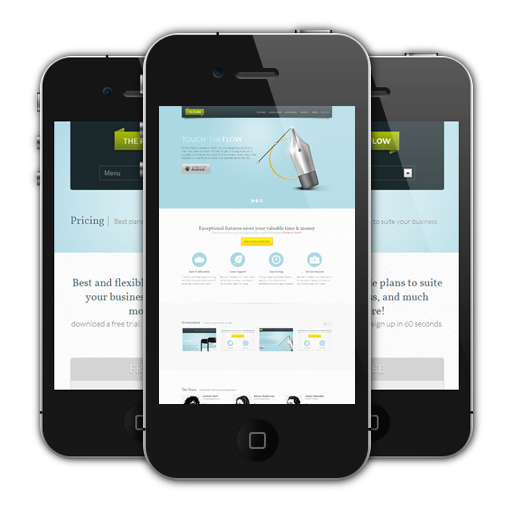
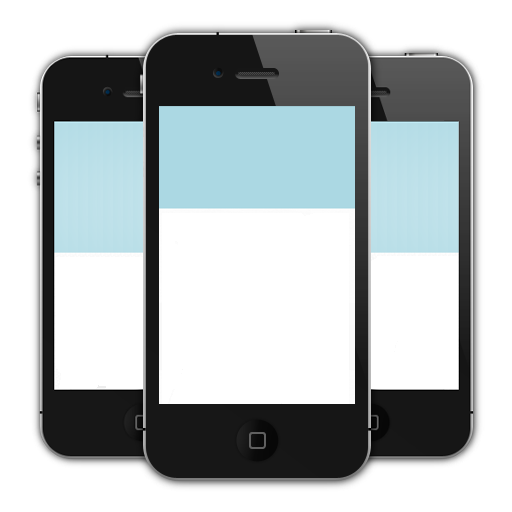
Menu finalize and Page layout updated

diff --git a/index.html b/index.html
@@ -6,7 +6,7 @@
 <meta name="keywords" content="web development, python, javascript, css, html, angularjs, nodejs, "/>
 <meta name="author" content="YoKu" />
 <meta name="viewport" content="width=device-width, initial-scale=1, maximum-scale=1"/>
-<title>crubod Inc.</title>
+<title>crubod</title>
 
 <!--Fav and touch icons-->
 <link rel="shortcut icon" href="images/icons/favicon.ico">
@@ -135,12 +135,13 @@ $('#contactform #message').val('');
       <div id="nav" class="twelve columns omega">
         <ul>
           <li><a href="#header_wrapper" class="nav-header_wrapper nav selected">Home</a></li>
-          <li><a href="#features" class="nav-about-us nav">About Us</a></li>
-          <li><a href="#screenshots" class="nav-products nav">Products</a></li>
-          <li><a href="#download" class="nav-service nav">Services</a></li>
-          <li><a href="#download" class="nav-team nav">Clients</a></li>
+          <li><a href="#aboutus" class="nav-about-us nav">About Us</a></li>
+          <li><a href="#products" class="nav-products nav">Products</a></li>
+          <li><a href="#services" class="nav-services nav">Services</a></li>
+          <li style="display:none;"><a href="#team" class="nav-team nav">Team</a></li>
+          <li><a href="#clients" class="nav-clients nav">Clients</a></li>
           <li><a href="#contact" class="nav-contact nav">Contact</a></li>
-          <li><a href="#">More</a>
+          <li style="display:none;"><a href="#">More</a>
             <ul>
               <li class="firstdroplink"><a href="pricing-3columns.html">Blog</a></li>
               <li class="lastdroplink"><a href="pricing-4columns.html">Recuitment</a></li>
@@ -160,27 +161,27 @@ $('#contactform #message').val('');
         
         <!--slide one starts-->
         <div class="da-slide">
-          <h2>Get Head<strong>start</strong></h2>
+          <h2>Web <strong>Development</strong></h2>
           <p> There's a voice that keeps on calling me. Down the road, that's where I'll always be. Every stop I make, I make a new friend. Can't stay for long, just turn around and I'm gone again. Maybe tomorrow, I'll want to settle down, I'll just keep moving on.</p>
-          <a href="#" class="da-link btn_googleplay"></a>
+          <a style="display:none;" href="#" class="da-link btn_googleplay"></a>
           <div class="da-img"><img src="images/preview/iphone.png" alt="image"/></div>
         </div>
         <!--slide one ends--> 
         
         <!--slide two starts-->
         <div class="da-slide">
-          <h2>Easy & <strong>Affordable</strong></h2>
+          <h2>Innovative <strong>Thoughts</strong></h2>
           <p>This is my boss, Jonathan Hart, a self-made millionaire, he's quite a guy. This is Mrs H., she's gorgeous and knows how to take care of herself. By the way, my name is Max. I take care of both of them, which ain't easy.</p>
-          <a href="#" class="da-link btn_appstore"></a>
+          <a style="display:none;" href="#" class="da-link btn_appstore"></a>
           <div class="da-img"><img src="images/preview/light.png" alt="image"/></div>
         </div>
         <!--slide two ends--> 
         
         <!--slide three starts-->
         <div class="da-slide">
-          <h2>touch <strong>crubod Inc.</strong> </h2>
+          <h2>Accuracy &amp;  <strong>Precision</strong> </h2>
           <p>Knight Rider, a shadowy flight into the dangerous world of a man who does not exist. Michael Knight, a young loner on a crusade to champion the cause of the innocent lorem ipsum, the helpless in a world of criminals who operate above the law.</p>
-          <a href="#" class="da-link btn_android"></a>
+          <a style="display:none;" href="#" class="da-link btn_android"></a>
           <div class="da-img"><img src="images/preview/draw.png" alt="image"/></div>
         </div>
         <!--slide three ends--> 
@@ -194,7 +195,7 @@ $('#contactform #message').val('');
     <div id="slider_replace">
       <div class="eight columns"><img src="images/preview/iphone.png" alt="image"/></div>
       <div class="eight columns">
-        <h2>Get Head<strong>start</strong></h2>
+        <h2>Web <strong>Development</strong></h2>
         <p> There's a voice that keeps on calling me. Down the road, that's where I'll always be. Every stop I make, I make a new friend. Can't stay for long, just turn around and I'm gone again. Maybe tomorrow, I'll want to settle down, Until tomorrow, I'll just keep moving on.</p>
         <a href="#" class="btn_googleplay"></a> </div>
     </div>
@@ -204,15 +205,15 @@ $('#contactform #message').val('');
 </div>
 <!--header_wrapper ends--> 
 
-<!--features section starts-->
-<div id="features" class="container clearfix scroll-content"> 
+<!--about us section starts-->
+<div id="aboutus" class="container clearfix scroll-content"> 
   
   <!--text and button-->
   <div class="sixteen columns">
-    <h1>Exceptional features saves your valuable time & money</h1>
-    <p class="textstyle1">One for all and all for one. If you've got a problem, think how it could be. <a href="#" class="coloredstrong">Checkout more!</a></p>
+    <h1>About Us</h1>
+    <p class="textstyle1">There's a voice that keeps on calling me. Down the road, that's where I'll always be. Every stop I make, I make a new friend. Can't stay for long, just turn around and I'm gone again. Maybe tomorrow, I'll want to settle down, Until tomorrow, I'll just keep moving on. There's a voice that keeps on calling me. Down the road, that's where I'll always be. Every stop I make, I make a new friend. Can't stay for long, just turn around and I'm gone again. Maybe tomorrow, I'll want to settle down, Until tomorrow, I'll just keep moving on. There's a voice that keeps on calling me. Down the road, that's where I'll always be. Every stop I make, I make a new friend. Can't stay for long, just turn around and I'm gone again. Maybe tomorrow, I'll want to settle down, Until tomorrow, I'll just keep moving on.<a style="display:none;" href="#" class="coloredstrong">Checkout more!</a></p>
     <div class="centerline">
-      <div class="button_wrapper"> <a href="#" class="btn_yellow"><span>See Plans & Pricing</span></a></div>
+      <div class="button_wrapper"> <a href="#" class="btn_yellow"><span>Testimonial</span></a></div>
     </div>
   </div>
   
@@ -249,18 +250,24 @@ $('#contactform #message').val('');
   <!--feature four ends--> 
   
 </div>
-<!--features section ends--> 
+<!--about us section ends--> 
 
-<!--screenshots section starts-->
+<!--products section starts-->
 <div class="row_color">
-  <div id="screenshots" class="container clearfix scroll-content">
+  <div id="products" class="container clearfix scroll-content">
     <div class="columns sixteen"> 
       
       <!--heading (do not remove clear below heading)-->
-      <h2>Screenshots</h2>
-      <p class="textstyle2">What you see is what you get</p>
+      <h1>Products</h1>
+      <p class="textstyle2">There's a voice that keeps on calling me. Down the road, that's where I'll always be. Every stop I make, I make a new friend. Can't stay for long, just turn around and I'm gone again. Maybe tomorrow, I'll want to settle down, Until tomorrow, I'll just keep moving on. There's a voice that keeps on calling me. Down the road, that's where I'll always be. Every stop I make, I make a new friend.</p>
       <br class="clear"/>
-      
+      <h3>We have worked on these products</h3>
+      <ul class="list2">
+      	<li>SeekersGuru</li>
+      	<li>Yoku - Project Management</li>
+      	<li>YokuCabs</li>
+      	<li>Haana</li>
+      </ul>
       <!--gallery / carousel starts-->
       <ul id="mycarousel" class="jcarousel-skin-tango">
         <li>
@@ -287,15 +294,37 @@ $('#contactform #message').val('');
     </div>
   </div>
 </div>
-<!--screenshots section ends--> 
+<!--products section ends--> 
+
+<!--services section starts-->
+<div class="row_color">
+  <div id="services" class="container clearfix scroll-content">
+    <div class="columns sixteen"> 
+      
+      <!--heading (do not remove clear below heading)-->
+      <h1>Services</h1>
+      <p class="textstyle2">There's a voice that keeps on calling me. Down the road, that's where I'll always be. Every stop I make, I make a new friend. Can't stay for long, just turn around and I'm gone again. Maybe tomorrow, I'll want to settle down, Until tomorrow, I'll just keep moving on. There's a voice that keeps on calling me. Down the road, that's where I'll always be. Every stop I make, I make a new friend.here's a voice that keeps on calling me. Down the road, that's where I'll always be. Every stop I make, I make a new friend. Can't stay for long, just turn around and I'm gone again. Maybe tomorrow, I'll want to settle down, Until tomorrow, I'll just keep moving on. There's a voice that keeps on calling me. Down the road, that's where I'll always be. Every stop I make, I make a new friend.</p>
+      <br class="clear"/>
+      <h3>We Provide these services</h3>
+      <ul class="list1">
+      	<li>Web Deveploment</li>
+      	<li>Mobile Deveploment</li>
+      	<li>Traning</li>
+      	<li>Consultancy services</li>
+      	<li>Support</li>
+      </ul>
+    </div>
+  </div>
+</div>
+<!--services section ends--> 
 
 <!--team section starts-->
-<div id="team" class="container clearfix scroll-content"> 
+<div style="display:none;" id="team" class="container clearfix scroll-content"> 
   
   <!--heading here-->
   <div class="columns sixteen">
     <h2>The Team</h2>
-    <p class="textstyle2">People behind this awesome application</p>
+    <p class="textstyle2">People behind this organization</p>
   </div>
   
   <!--member one starts-->
@@ -340,27 +369,23 @@ $('#contactform #message').val('');
 </div>
 <!--team section ends--> 
 
-<!--download section starts-->
+<!--clients section starts-->
 <div class="row_color">
-  <div id="download" class="container clearfix scroll-content">
+  <div id="clients" class="container clearfix scroll-content">
     <div class="columns sixteen"> 
-      
-      <!--grey logo-->
-      <div class="logo_grey"><img src="images/logo-mono.png" width="122" height="62" alt="logo"></div>
-      <h2>Don't wait. Indulge into the beauty of this awesome application</h2>
-      <ul class="textlist">
-        <li>30 days free trial</li>
-        <li>| </li>
-        <li> No credit card required </li>
-        <li>| </li>
-        <li><span class="coloredstrong">$10 /month</span> after end of trial period</li>
-      </ul>
-      <!--center aligned button-->
-      <div class="button_wrapper"> <a href="#" class="btn_yellow"><span>Download Today!</span></a></div>
+      <h2>Clients</h2>
+      <div class="sixteen columns client-div">
+      	<h4>Google</h4>
+      	<img src="images/preview/thumb-1.jpg" alt="image" class="image_left">Nam liber tempor cum soluta nobis eleifend option congue nihil imperdiet doming id quod mazim placerat facer possim assum. Nam liber tempor cum soluta nobis eleifend option congue nihil imperdiet doming id quod mazim placerat facer possim assum. Nam liber tempor cum soluta nobis eleifend option congue nihil imperdiet doming id quod mazim placerat facer possim assum.
+      </div>
+      <div class="sixteen columns client-div">
+      	<h4>Facebook</h4>
+      	<img src="images/preview/thumb-2.jpg" alt="image" class="image_left">Nam liber tempor cum soluta nobis eleifend option congue nihil imperdiet doming id quod mazim placerat facer possim assum. Nam liber tempor cum soluta nobis eleifend option congue nihil imperdiet doming id quod mazim placerat facer possim assum. Nam liber tempor cum soluta nobis eleifend option congue nihil imperdiet doming id quod mazim placerat facer possim assum.
+      </div>
     </div>
   </div>
 </div>
-<!--download section ends--> 
+<!--clients section ends--> 
 
 <!--sub_footer section starts-->
 <div id="sub_footer" class="container clearfix scroll-content"> 
@@ -459,12 +484,12 @@ $('#contactform #message').val('');
     <!--address / social starts-->
     <div class="column one-third address">
       <ul class="social">
-        <li><a href="#"><img src="images/icons/social-footer-dribbble.png" width="46" height="46" alt="icon"></a></li>
-        <li><a href="#"><img src="images/icons/social-footer-skype.png" width="46" height="46" alt="icon"></a></li>
-        <li><a href="#"><img src="images/icons/social-footer-facebook.png" width="46" height="46" alt="icon"></a></li>
-        <li><a href="#"><img src="images/icons/social-footer-twitter.png" width="46" height="46" alt="icon"></a></li>
+        <li style="display:none;"><a href="#"><img src="images/icons/social-footer-dribbble.png" width="46" height="46" alt="icon"></a></li>
+        <li><a href="skype:crubod?call"><img src="images/icons/social-footer-skype.png" width="46" height="46" alt="icon"></a></li>
+        <li><a target="_blank" href="https://www.facebook.com/crubod"><img src="images/icons/social-footer-facebook.png" width="46" height="46" alt="icon"></a></li>
+        <li><a target="_blank" href="https://twitter.com/crubod"><img src="images/icons/social-footer-twitter.png" width="46" height="46" alt="icon"></a></li>
       </ul>
-      <div class="contact_info"> <a href="#" >info@crubod.com</a>
+      <div class="contact_info"> <a href="mailto:info@crubod.com" >info@crubod.com</a>
         <p>+91 (0) 8890467032</p>
       </div>
       <p>New Delhi, India </p>
@@ -482,7 +507,7 @@ $('#contactform #message').val('');
   
   <!--footer starts-->
   <div id="footer">
-    <p>crubod Inc. © 2014. All Rights Reserved.</p>
+    <p>crubod © 2014. All Rights Reserved.</p>
     <ul style="display:none;">
       <li><a href="#">Terms of use </a></li>
       <li><a href="#">Privacy policy</a></li>

diff --git a/css/style.css b/css/style.css
@@ -20,10 +20,10 @@ Here is CSS structure...
 	
 2. TEMPLATE STRUCTURE
 	2.1 header
-	2.2 features
-	2.3 screenshots
+	2.2 aboutus
+	2.3 products
 	2.4 team
-	2.5 download
+	2.5 services
 	2.6 sub footer
 	2.7 contact
 	2.8 footer
@@ -154,7 +154,7 @@ a:hover {
 h1 a, h2 a, h3 a, h4 a, h5 a, h6 a {
 	color: #4d656b;
 }
-#screenshots h2, #team h2, #contact h2, #sub_footer h2, #page_subfooter h2 {
+#services h2, #products h2, #team h2, #contact h2, #sub_footer h2, #page_subfooter h2 {
 	background: url(../images/heading-text-divider-line.jpg) no-repeat right;
 	padding-right: 10px;
 	margin: 0 10px 15px 0;
@@ -421,10 +421,13 @@ h1 a, h2 a, h3 a, h4 a, h5 a, h6 a {
 	padding-bottom: 30px;
 	padding-top: 90px;
 }
-#features {
+#aboutus {
 	padding: 110px 0;
 }
-#screenshots {
+#products {
+	padding: 110px 0;
+}
+#services {
 	padding: 110px 0;
 }
 #team {
@@ -433,7 +436,7 @@ h1 a, h2 a, h3 a, h4 a, h5 a, h6 a {
 #sub_footer {
 	padding: 110px 0;
 }
-#download {
+#clients {
 	padding: 110px 0;
 }
 #contact {
@@ -574,9 +577,9 @@ h1 a, h2 a, h3 a, h4 a, h5 a, h6 a {
 	word-spacing: 13px;
 }
 /*----------------------------------------*/
-/*----- 2.2 features -----*/
+/*----- 2.2 aboutus -----*/
 /*----------------------------------------*/
-#features h1, #features h4 {
+#aboutus h1, #aboutus h4 {
 	text-align: center;
 }
 .icon_bg {
@@ -592,7 +595,7 @@ h1 a, h2 a, h3 a, h4 a, h5 a, h6 a {
 	float: left;
 }
 /*----------------------------------------*/
-/*----- 2.3 screenshots -----*/
+/*----- 2.3 products -----*/
 /*----------------------------------------*/
 #mycarousel li {
 	background: #fcfcfc;
@@ -654,9 +657,9 @@ h1 a, h2 a, h3 a, h4 a, h5 a, h6 a {
 	float: left;
 }
 /*----------------------------------------*/
-/*----- 2.5 download -----*/
+/*----- 2.5 services -----*/
 /*----------------------------------------*/
-#download h2 {
+#services h2 {
 	text-align: center;
 	margin-bottom: 8px;
 }
@@ -1153,7 +1156,7 @@ color: #82848a;
  height: auto !important;
  padding-bottom: 10px;
 }
-#features, #screenshots, #team, #download, #sub_footer, #contact {
+#aboutus, #products, #services, #team, #clients, #sub_footer, #contact {
  padding: 30px 0;
 }
 #sub_header {
@@ -1228,6 +1231,9 @@ display: none;
 }
 }
 
+.client-div {
+	margin-top: 10px;
+}
 /*============================================================*/
 /*---------- 5. Browser fixes ----------*/
 /*============================================================*/
